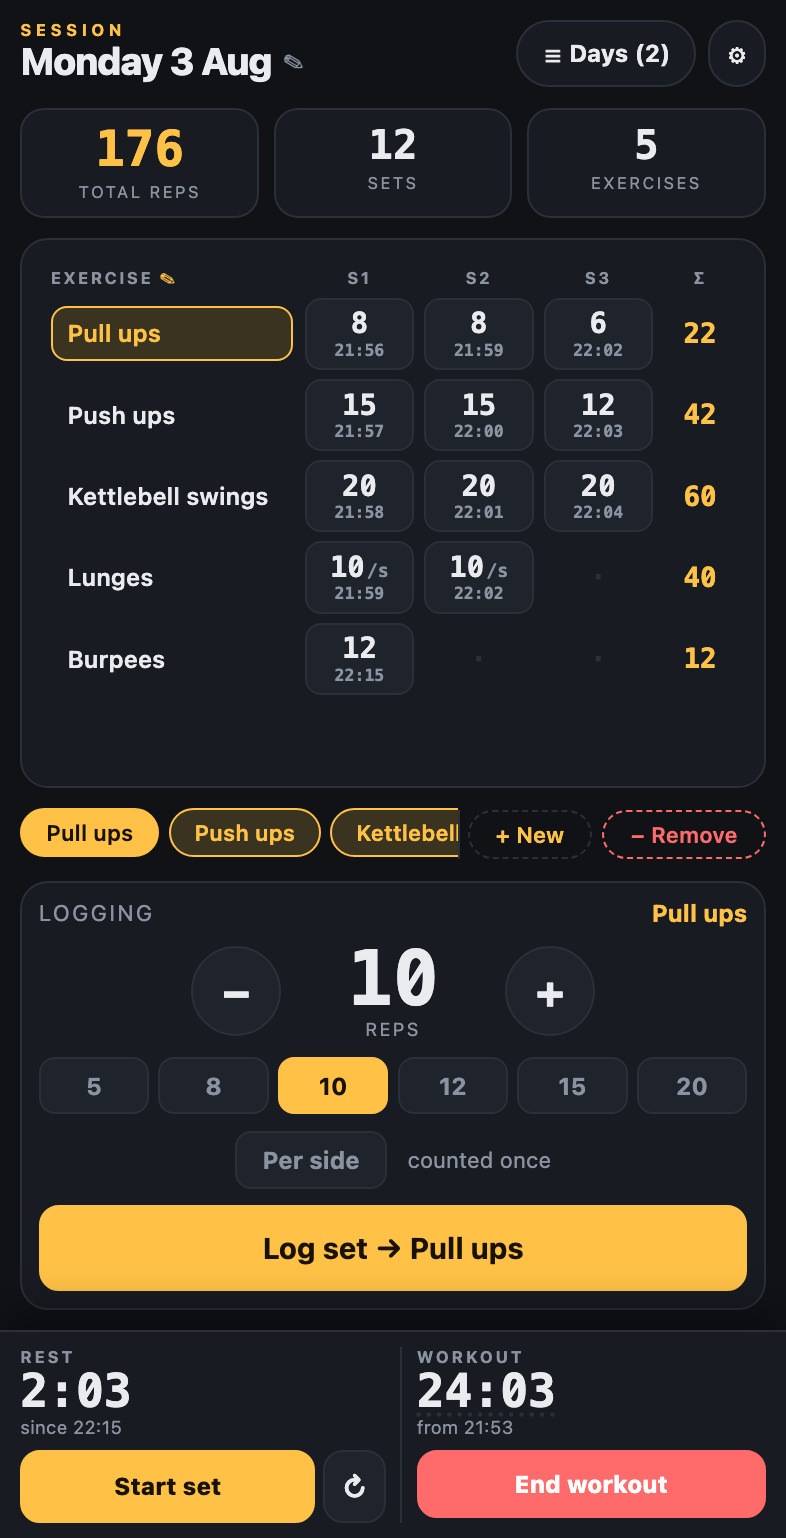
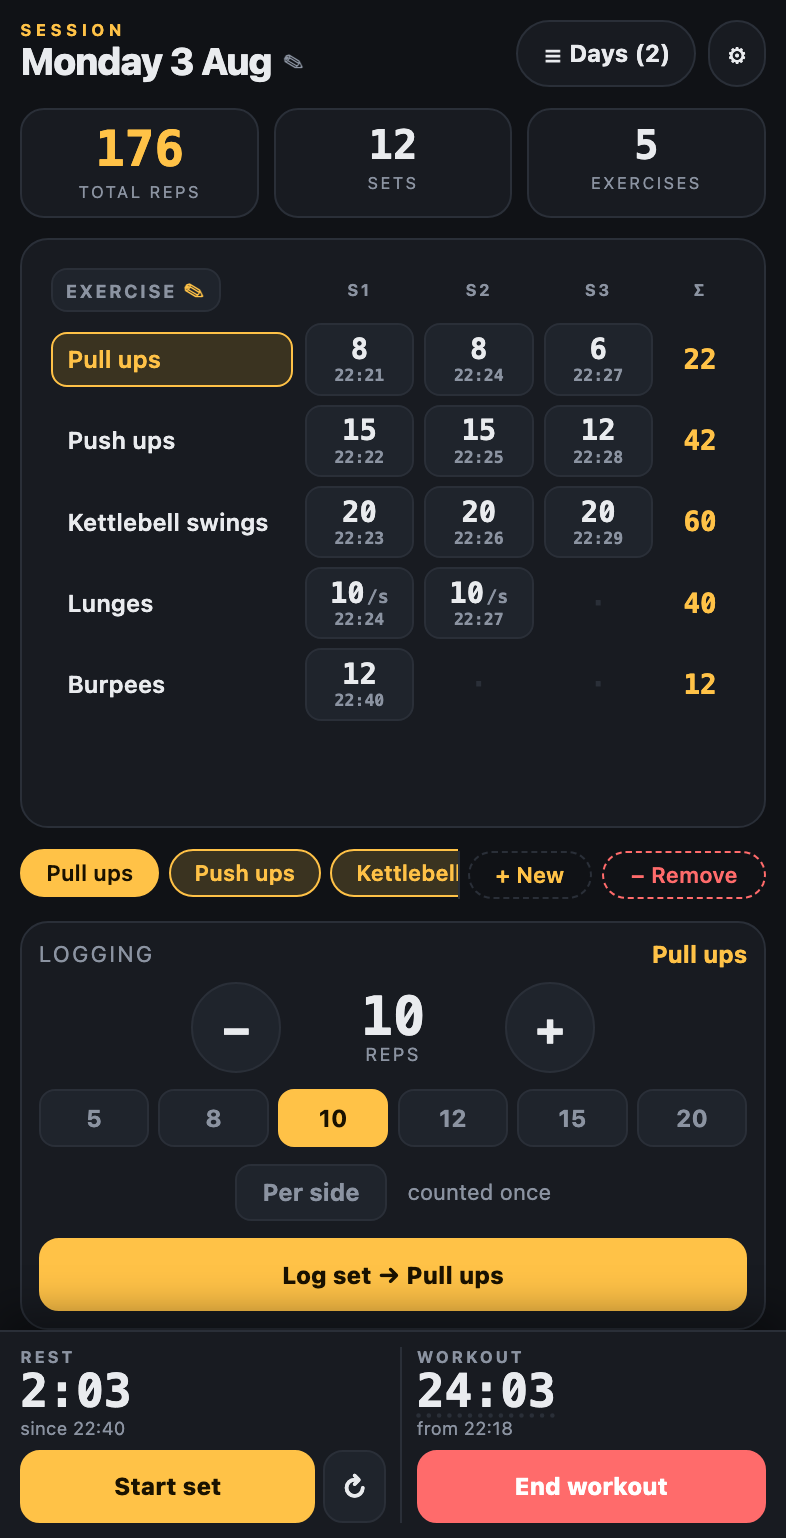
Match the primary button heights and give the table the spare room

diff --git a/styles.css b/styles.css
@@ -16,11 +16,13 @@
   --f-md:calc(13px * var(--k));
   --f-lg:calc(15px * var(--k));
   --f-clock:calc(clamp(23px,6.4vw,28px) * var(--k));
-  --f-rep:calc(clamp(36px,10.5vw,46px) * var(--k));
+  --f-rep:calc(clamp(26px,7.4vw,34px) * var(--k));
   --f-cell:calc(clamp(15px,4vw,17px) * var(--k));
   --round:calc(clamp(44px,12.5vw,54px) * var(--k));
   --cellh:calc(clamp(36px,10vw,42px) * var(--k));
   /* Widths deliberately ignore --k: three set columns always fit, the rest scroll. */
+  /* One height for every primary action: Log set, Start set, End workout. */
+  --ctlh:calc(40px * var(--k));
   --cellw:clamp(50px,13.5vw,58px);
   --exw:clamp(92px,27vw,150px);
   --exwmax:clamp(150px,42vw,190px);
@@ -112,7 +114,8 @@ td.sum{min-width:36px;text-align:center;color:var(--accentText);
 .sd{font-size:var(--f-xs);color:var(--muted);margin-left:1px;}
 .ct{display:block;font-size:var(--f-tiny);font-weight:600;color:var(--muted);line-height:1;margin-top:2px;}
 
-.panel{flex:none;margin-top:var(--sp);margin-bottom:var(--sp);}
+/* Sits flush on the timer bar: the space below it belongs to the table. */
+.panel{flex:none;margin-top:var(--sp);margin-bottom:0;}
 .prow{display:flex;justify-content:space-between;align-items:center;gap:10px;margin-bottom:calc(8px * var(--k));}
 .plabel{font-size:var(--f-sm);color:var(--muted);text-transform:uppercase;letter-spacing:1px;flex:none;}
 .pactive{font-size:var(--f-md);font-weight:700;color:var(--accentText);text-align:right;
@@ -135,8 +138,9 @@ td.sum{min-width:36px;text-align:center;color:var(--accentText);
 
 .btn{border-radius:10px;padding:calc(10px * var(--k)) 14px;font-size:var(--f-md);
   font-weight:700;cursor:pointer;flex:1;}
+/* Matches the timer bar buttons, so the three primary actions read as one row of controls. */
 .btn.log{background:var(--accent);color:var(--onAccent);border:1px solid var(--accent);
-  width:100%;font-size:calc(16px * var(--k));padding:calc(13px * var(--k));}
+  width:100%;font-size:var(--f-md);font-weight:800;padding:0 6px;min-height:var(--ctlh);}
 .btn.log .at{font-weight:800;opacity:.75;}
 .btn.primary{background:var(--accent);color:var(--onAccent);border:1px solid var(--accent);}
 .btn.ghost{background:transparent;color:var(--muted);border:1px solid var(--line);}
@@ -200,8 +204,8 @@ input.name{background:var(--bg);border:1px solid var(--accent);color:var(--text)
   text-decoration-color:var(--line);text-underline-offset:3px;}
 .tbtn.narrow{flex:none;width:calc(34px * var(--k));padding-left:0;padding-right:0;
   font-size:calc(15px * var(--k));}
-.tbtn{width:100%;border-radius:10px;
-  padding:calc(10px * var(--k)) 6px;font-size:var(--f-md);font-weight:800;cursor:pointer;
+.tbtn{width:100%;border-radius:10px;min-height:var(--ctlh);
+  padding:0 6px;font-size:var(--f-md);font-weight:800;cursor:pointer;
   border:1px solid var(--line);background:var(--panelHi);color:var(--text);
   white-space:nowrap;overflow:hidden;text-overflow:ellipsis;}
 .tbtn.go{background:var(--accent);border-color:var(--accent);color:var(--onAccent);}
